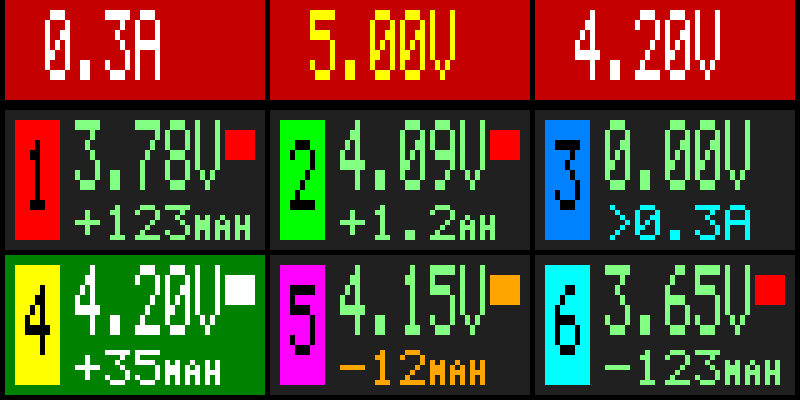
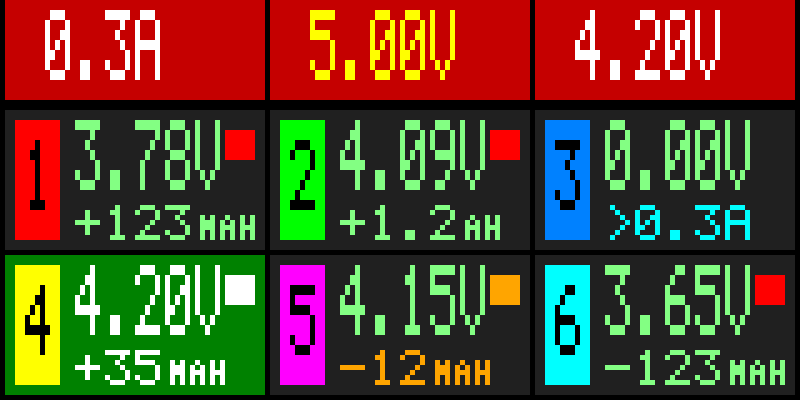
The unit after a count keeps a blank column in front, so it does not run into the number
Claude-Session: https://claude.ai/code/session_01VwrRFPG5MyRPnjr4xdy1gH

diff --git a/src/lcd.h b/src/lcd.h
@@ -11,7 +11,8 @@ void lcd_wake(void);              /* sleep-out; the panel wants 5 ms before lcd_
 void lcd_reconfig(void);          /* re-send the panel registers (not the picture); see lcd.c */
 void lcd_fill(uint8_t x, uint8_t y, uint8_t w, uint8_t h, uint16_t color);
 /* sx, sy: integer stretch of the 6x8 cell.  Characters outside the font draw as space.
-   sx 0: small letters instead, 3x5 in a cell of 4x8, for the unit after a count: only M, A and H exist (anything else is blank). */
+   sx 0: small letters instead, 3x5 behind a blank column in a cell of 4x8, for the unit after a count: only M, A and H exist
+   (anything else is blank). */
 void lcd_text(uint8_t x, uint8_t y, const char *s, uint8_t sx, uint8_t sy, uint16_t fg, uint16_t bg);
 
 #endif

diff --git a/tools/render_screens.c b/tools/render_screens.c
@@ -35,7 +35,7 @@ void lcd_text(uint8_t x, uint8_t y, const char *s, uint8_t sx, uint8_t sy, uint1
             unsigned c = *s == 'M' ? 0 : *s == 'A' ? 3 : *s == 'H' ? 6 : 9, r, i;
             for (r = 0; r < 8; r++)
                 for (i = 0; i < 4; i++)
-                    if (x + i < LCD_PX_W && y + r < LCD_PX_H) fb[y + r][x + i] = c < 9 && i < 3 && r >= 2 && r < 7 && ((SMALL[c + i] >> (r - 2)) & 1) ? fg : bg;
+                    if (x + i < LCD_PX_W && y + r < LCD_PX_H) fb[y + r][x + i] = c < 9 && i && r >= 2 && r < 7 && ((SMALL[c + i - 1] >> (r - 2)) & 1) ? fg : bg;
         }
         return;
     }

diff --git a/src/lcd.c b/src/lcd.c
@@ -132,7 +132,7 @@ void lcd_text(uint8_t x, uint8_t y, const char *s, uint8_t sx, uint8_t sy, uint1
             window(x, y, 4, 8);
             for (r = 0; r < 8; r++)
                 for (i = 0; i < 4; i++) {
-                    k = c < 9 && i < 3 && r >= 2 && r < 7 && ((SMALL[c + i] >> (r - 2)) & 1);
+                    k = c < 9 && i && r >= 2 && r < 7 && ((SMALL[c + i - 1] >> (r - 2)) & 1);
                     if (k) { tx(fh); tx(fl); } else { tx(bh); tx(bl); }
                 }
             CS = 1;
